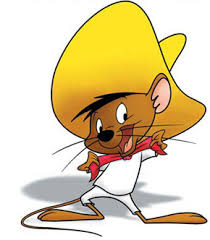
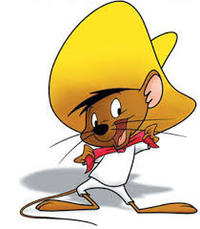
resize images

diff --git a/app/uploaders/image_uploader.rb b/app/uploaders/image_uploader.rb
@@ -4,7 +4,7 @@ class ImageUploader < CarrierWave::Uploader::Base
 
   # Include RMagick or MiniMagick support:
   # include CarrierWave::RMagick
-  # include CarrierWave::MiniMagick
+  include CarrierWave::MiniMagick
 
   # Choose what kind of storage to use for this uploader:
   # storage :file
@@ -29,7 +29,7 @@ class ImageUploader < CarrierWave::Uploader::Base
   # end
 
   # Process files as they are uploaded:
-  # process :scale => [200, 300]
+  process :resize_to_fit => [200, 300]
   #
   # def scale(width, height)
   #   # do something
